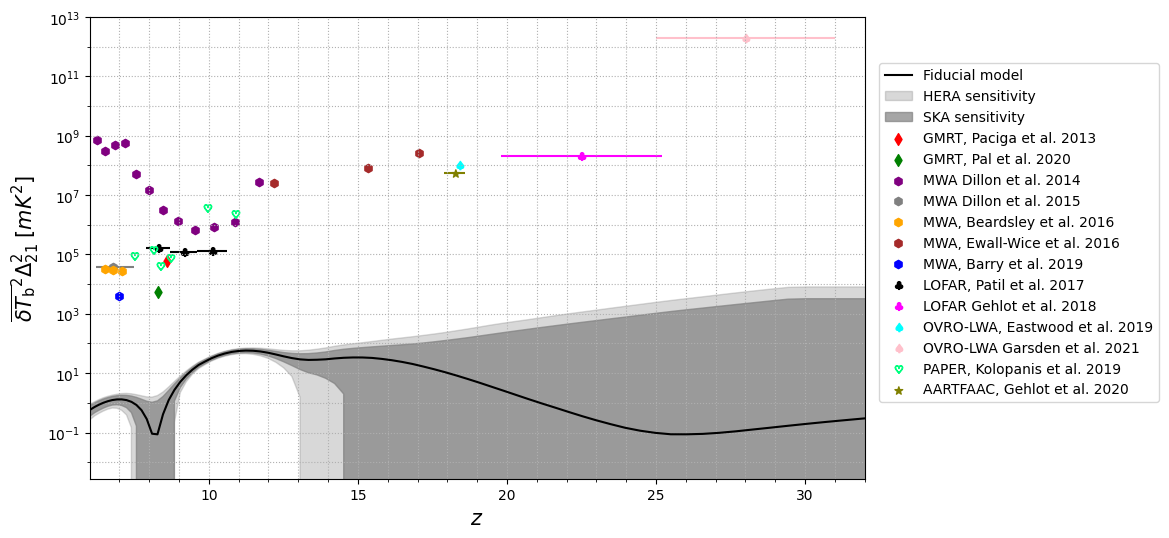
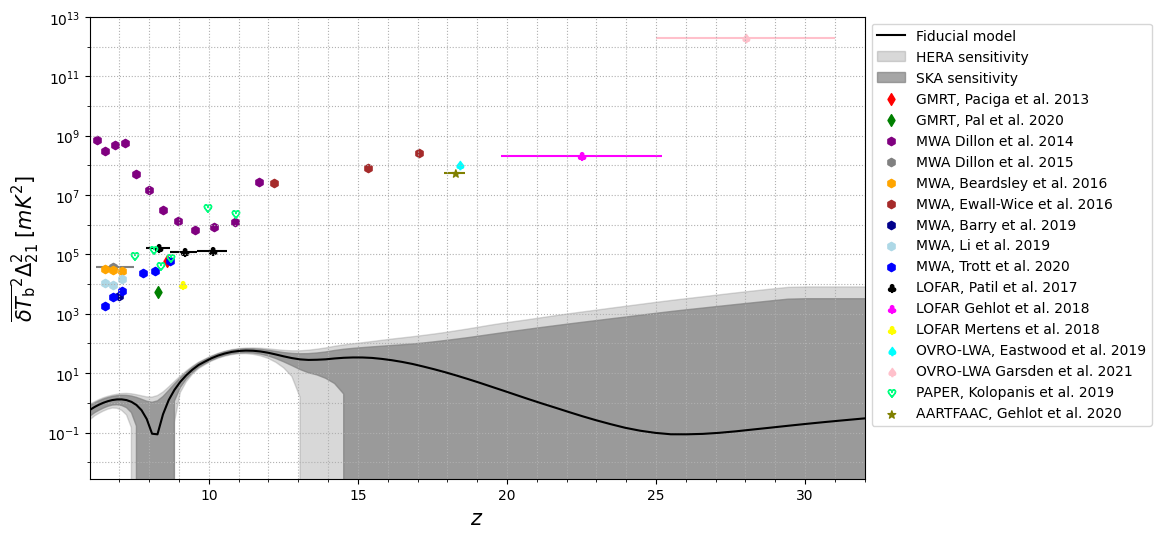
New MWA and LOFAR limits added

diff --git a/21cmBounds.py b/21cmBounds.py
@@ -126,7 +126,7 @@ for i, data in enumerate(datanames):
 
 
 ax.set_yscale("log")
-ax.legend(bbox_to_anchor=(1.38, 0.9), borderaxespad=0., fontsize=10)
+ax.legend(bbox_to_anchor=(1., 1.), loc="upper left", fontsize=10)
 ax.set_xlim([6.,32.])
 ax.set_ylabel(r"$\overline{\delta T_{\rm b}}^2 \Delta_{21}^2 \; [mK^2]$", fontsize=fontsiz)
 ax.set_xlabel(r"$z$", fontsize=fontsiz)

diff --git a/README.md b/README.md
@@ -18,14 +18,17 @@ Scales for most of the upper limits plotted lie within k ~ 0.1 and 0.3 h/Mpc, wi
 | File | Reference | arXiv | k [h/Mpc] | Notes |
 |---|---|---|---|---|
 |GMRT_2013 | Paciga et al. 2013 | 1301.5906 | 0.5 | - |
-|GMRT_2020 | Pal et al. 2020 | 2012.04998 | 1.59 | Larger k available |
-|MWA_2014 | Dillon et al. 2014 | 1304.4229 | ~ 0.1 | Larger k available |
-|MWA_2015 | Dillon et al. 2015 | 1506.01026 | ~ 0.2 | Several k available |
+|GMRT_2020 | Pal et al. 2020 | 2012.04998 | 1.59 | Other k available |
+|MWA_2014 | Dillon et al. 2014 | 1304.4229 | ~ 0.1 | Other k available |
+|MWA_2015 | Dillon et al. 2015 | 1506.01026 | ~ 0.2 | Other k available |
 |MWA_2016_1 | Beardsley et al. 2016 | 1608.06281 | ~ 0.2 | Table 1, Polarization N-S (see reference) |
 |MWA_2016_2 | Ewall-Wice et al. 2016 | 1605.00016 | ~ 0.2 | Sec. 4.4 (see reference) |
-|MWA_2019 | Barry et al. 2019 | 1909.00561 | 0.2 | - |
+|MWA_2019_1 | Barry et al. 2019 | 1909.00561 | 0.2 | - |
+|MWA_2019_2 | Li et al. 2019 | 1911.10216 | ~ 0.2 | Table 2. Other k available |
+|MWA_2020 | Trott et al. 2019 | 2002.02575 | 0.142 | Table 4. Other k available |
 |LOFAR_2017 | Patil et al. 2017 | 1702.08679 | 0.128 | Table 3 (stronger limits at k = 0.053 h/Mpc) |
 |LOFAR_2018 | Gehlot et al. 2018 | 1809.06661 | 0.038 | Redshifts between z=19.8−25.2, 3C220 field (see reference) |
+|LOFAR_2020 | Mertens et al. 2020 | 2002.07196 | 0.100 | Table 4. Other k available |
 |OVRO-LWA_2019 | Eastwood et al. 2019 | 1906.08943 | ~ 0.1 | - |
 |OVRO-LWA_2021 | Garsden et al. 2021 | 2102.09596 | 0.3 | Redshifts between z=25−31 |
 |PAPER_2019 | Kolopanis et al. 2019 | 1909.02085 | ~ 0.3 | - |
